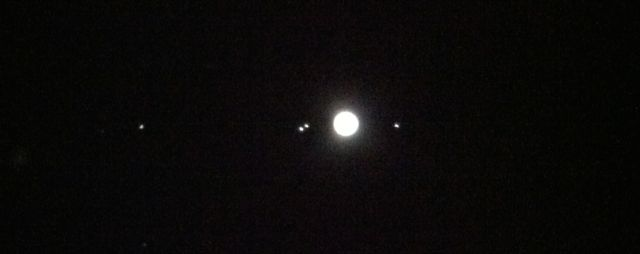
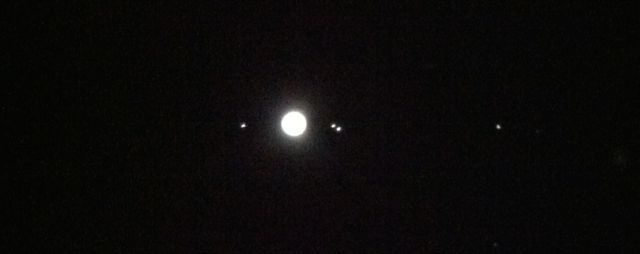
flip jupiter images

Changed region(s): [[0.375, 0.3583, 0.625, 0.6063]]

diff --git a/htdoc/Astronomy/jupiter.html b/htdoc/Astronomy/jupiter.html
@@ -1,7 +1,7 @@
 <html>
 
   <head>
-    <title>Jupiter and Moons</title>
+    <title>Jupiter and his moons</title>
     <link href="../styles.css" rel="stylesheet" type="text/css"/>
   </head>
 
@@ -25,12 +25,6 @@
 	<a href=http://www.celestron.com/astronomy/celestron-nexstar-8se.html>Celestron
 	NexStar 8se</a> by holding my iPhone up to the eye piece (25mm
 	Pl&ouml;ssl).
-
-	(I am working on getting the NexImage 5 to run on a iMac with VMWare).
-
-	These images are also shot through a star diagonal so they are
-	mirrored left-right; I did not flip it around from what I saw
-	when I took it.
 
 	I used <a href=https://itunes.apple.com/us/app/solar-walk-3d-solar-system/id347546771?mt=8>Solar
 	Walk</a> to work out the order of the moons.
@@ -79,50 +73,50 @@
 
   <tr>
     <td>
+      <img src = "jupiter_2014mar15.jpg">
       <p>
 	2014 March 15, 20:26 PDT, RA: 06h 47m 32.8s, Dec: +23&deg; 08&#8217; 02&#8221;
       </p>
-      Callisto, Jupiter, Io, Europa, Ganymede
+      Ganymede, Europa, Io, Jupiter, Callisto
       <p>
       </p>
-      <img src = "jupiter_2014mar15.jpg">
     </td>
   </tr>
 
   <tr>
     <td>
+      <img src = "jupiter_2014mar16.jpg">
       <p>
 	2014 March 16, 20:27 PDT, RA: 06h 45m 05.5s, Dec: +23&deg; 30&#8217; 09&#8221;
       </p>
       <p>
-	Callisto, Ganymede, Io, Jupiter, Europa
+	Europa, Jupiter, Io, Ganymede, Callisto
       </p>
-      <img src = "jupiter_2014mar16.jpg">
     </td>
   </tr>
 
 
   <tr>
     <td>
+      <img src = "jupiter_2014mar17.jpg">
       <p>
 	2014 March 17, 20:27 PDT, RA: 06h 49m 23.1s, Dec: +23&deg; 16&#8217; 21&#8221;
       </p>
       <p>
-	Ganymede, Callisto, Europa, Jupiter, Io
+	Io, Jupiter, Europa, Callisto, Ganymede
       </p>
-      <img src = "jupiter_2014mar17.jpg">
     </td>
   </tr>
 
   <tr>
     <td>
+      <img src = "jupiter_2014mar18.jpg">
       <p>
 	2014 March 18, 20:49 PDT, RA: 06h 46m 37.2s, Dec: +23&deg; 14&#8217; 00&#8221;
       </p>
       <p>
-	Ganymede, Io, Callisto, and Europa (the bump at 9 o'clock about to be occulted by) Jupiter.
+	Jupiter, Europa (the bump at 3 o'clock with respect to Jupiter), Callisto, Io, Ganymede
       </p>
-      <img src = "jupiter_2014mar18.jpg">
     </td>
   </tr>
 
